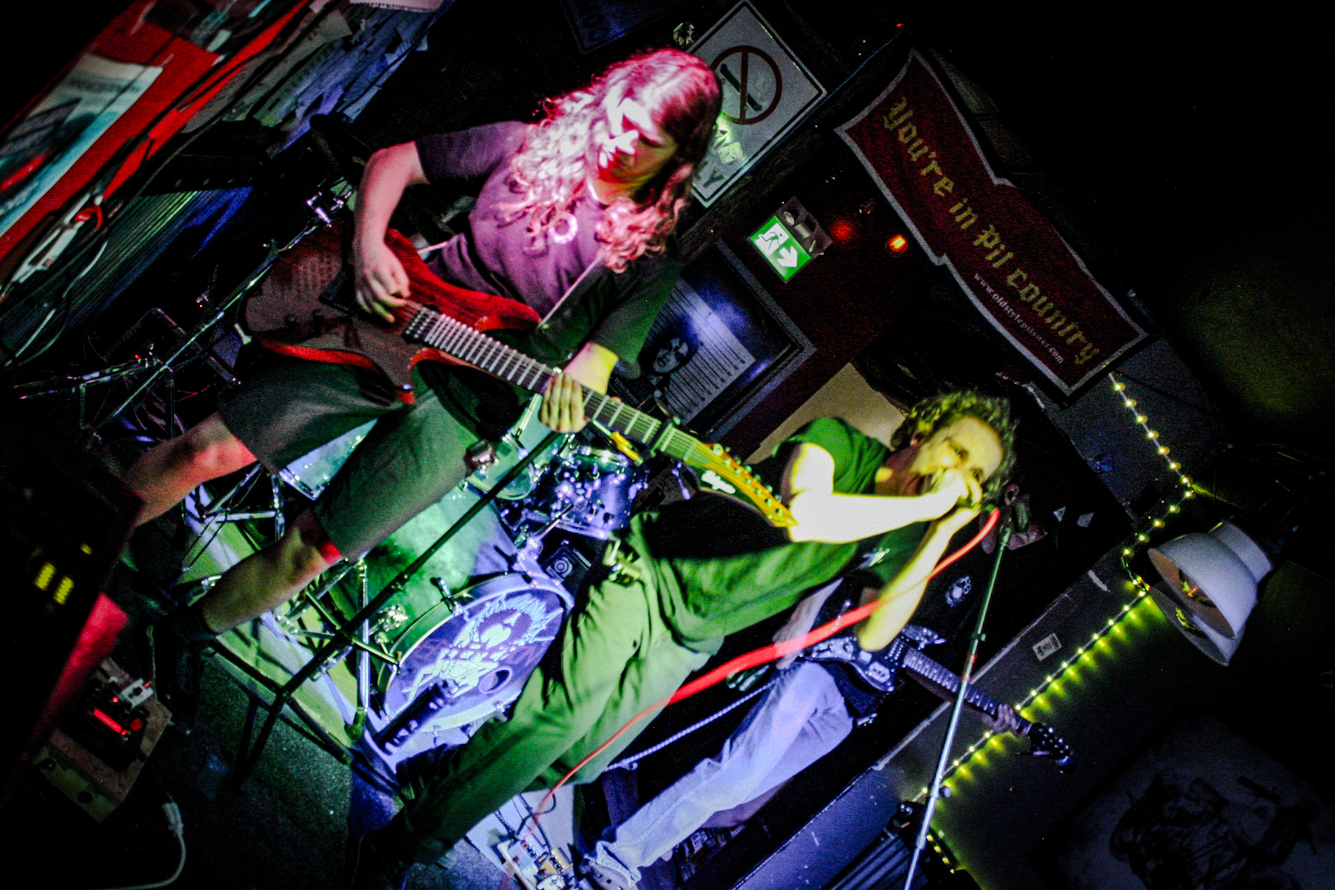
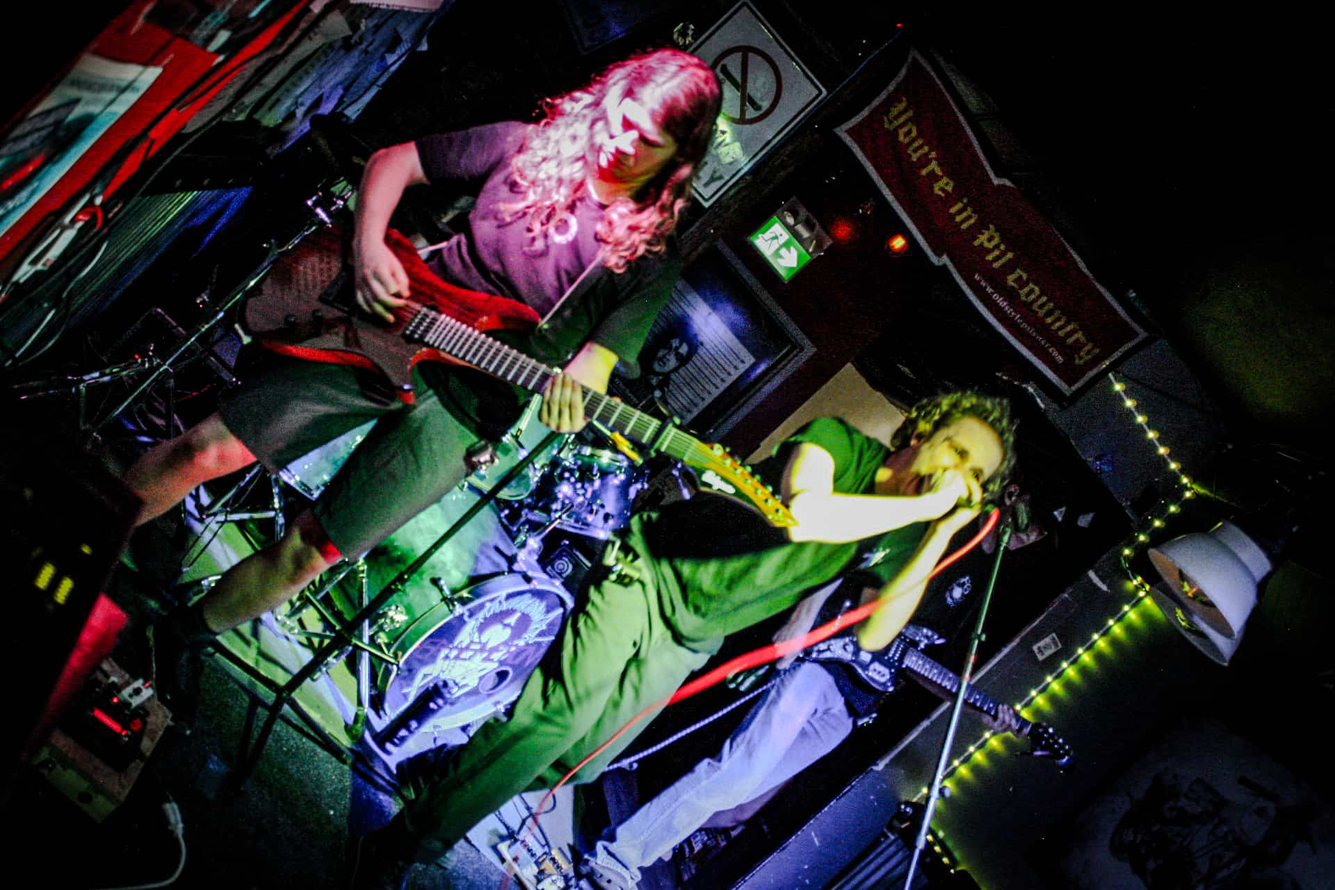
Optimized images for web

diff --git a/index.html b/index.html
@@ -23,7 +23,7 @@
     <meta property="og:description"
         content="Official website for Kelowna-Based Metalcore band FUTUREVOID. Photos, Music, Blog and More!" />
 
-    <meta property="og:image" content="https://futurevoid.ca/assets/images/bigjamocover.png" />
+    <meta property="og:image" content="https://futurevoid.ca/assets/images/bigjamocover.jpg" />
     <meta property="og:type" content="website" />
     <meta property="og:url" content="https://futurevoid.ca" />
 
@@ -34,7 +34,7 @@
     <meta name="twitter:title" content="FUTUREVOID" />
     <meta name="twitter:description"
         content="Official website for Kelowna-Based Metalcore band FUTUREVOID. Photos, Music, Blog and More! Pre-save CYANIDE out October 31st" />
-    <meta name="twitter:image" content="https://futurevoid.ca/assets/images/bigjamocover.png" />
+    <meta name="twitter:image" content="https://futurevoid.ca/assets/images/bigjamocover.jpg" />
 
     <link rel="icon" href="/favicon.ico" type="image/x-icon" />
     <link href="https://fonts.googleapis.com/css2?family=Unbounded:wght@700&display=swap" rel="stylesheet" />

diff --git a/assets/css/styles.css b/assets/css/styles.css
@@ -124,7 +124,7 @@ body {
     left: 0;
     width: 100%;
     height: 100%;
-    background: url("../images/bigjamocover.png") center / cover no-repeat;
+    background: url("../images/bigjamocover.jpg") center / cover no-repeat;
     transform: translateY(0);
     will-change: transform;
     z-index: 0;
